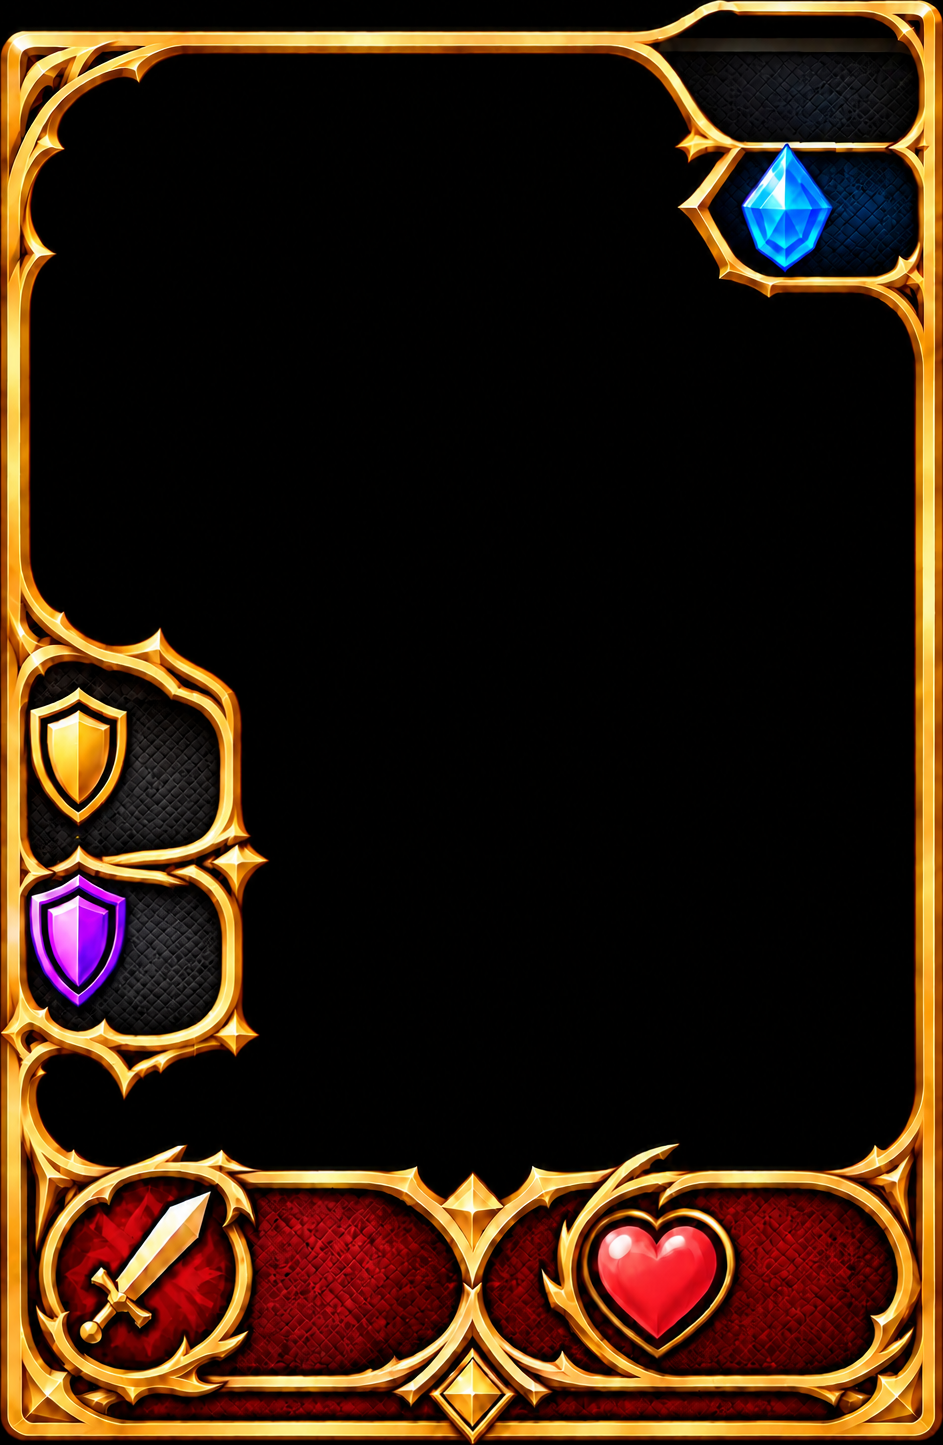
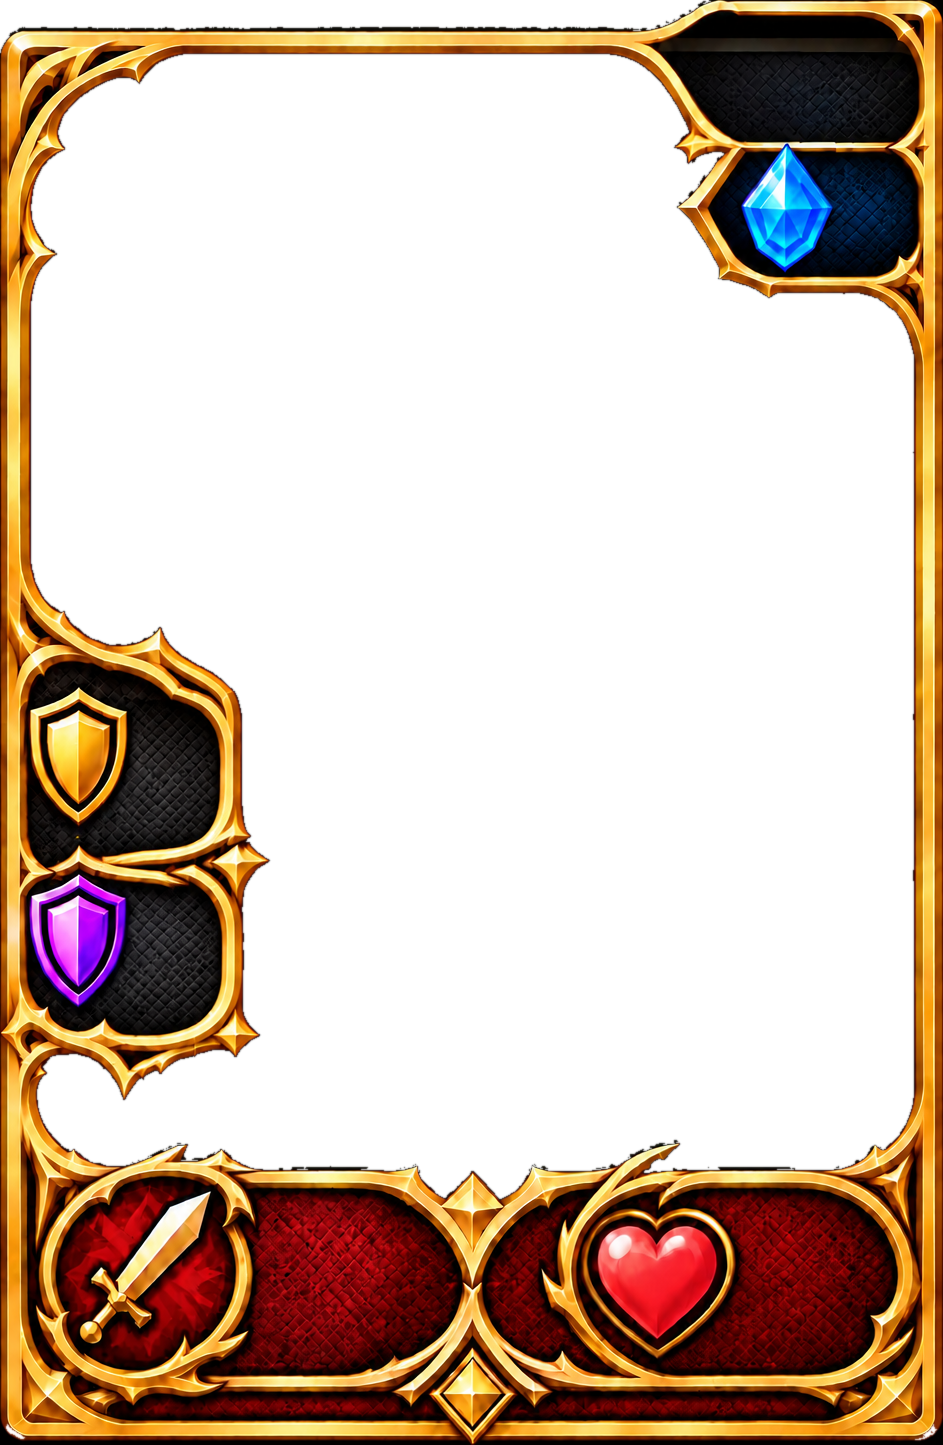
Khung lá quái: ô chỉ số nền đặc
Claude-Session: https://claude.ai/code/session_01XgSG6Z9xW8491CKVgy52Z1

diff --git a/src/lib/updates.ts b/src/lib/updates.ts
@@ -856,6 +856,7 @@ export const PENDING_NOTES: string[] = [
   "Bảng mô tả lá phép dùng khung vàng như Kho bài; số mana hiện cạnh tên bằng viên gem xanh; dưới mô tả hiện hình tốc độ to thay số mana.",
   "Lá quái đổi khung mới: lá trong bảng mô tả và lá trên tay; bỏ tên, sao ở ô trên cùng, chỉ số giáp vàng, kháng phép tím, công đỏ, máu hồng theo kiểu số sao.",
   "Lá quái trên tay: số công, máu, giáp, kháng phép, sao to và rõ hơn, không còn bị cắt; mana \"n+1\" của phép thu nhỏ vừa viên gem.",
+  "Khung lá quái mới: các ô chỉ số (sao, gem, giáp, kháng phép, công, máu) có nền đặc, không còn lộ hình lá xuyên qua.",
 ];
 
 function remarkOf(notes: string[]) {

diff --git a/src/styles.css b/src/styles.css
@@ -12995,3 +12995,4 @@ img.fs-emblem { width: 1.25rem; height: auto; fill: none; stroke: none; }
 .card .pin-stars .tag-star { width: 1.15em; height: 1.15em; }
 .card .speed { left: 77.5%; top: 18%; width: 19%; height: 13%; }
 .card.is-spell .socket:not(.is-name) { font-size: min(var(--spell-gem, 100%), 100%); }
+.card.is-framed .frame, .sheet-unit .field-unit .frame { mix-blend-mode: normal; }

diff --git a/TIEP-TUC.md b/TIEP-TUC.md
@@ -610,3 +610,4 @@ Chủ game trả lời (29/10), CHƯA LÀM gì, chờ "ok" và trả lời câu 
 - BẢNG MÔ TẢ LÁ PHÉP 02/11 (Sonnet medium; CHƯA áp `main`): lá phép trên bảng dùng `AlbumPic` (khung `cover-frame`); mana = `tag.gems` cạnh tên (`public/ui/gem.webp` chủ game gửi, tách nền trắng, số xanh lam, ẩn khi 0); tiêu đề mô tả dùng `SheetExtra.speed` (hình tốc độ cao 2,6rem) thay số mana, lá không có nhóm tốc độ thì không hình. Kho bài/Album đã dùng khung này sẵn. Chụp 390 (`/tmp/clashtest/box/c.mjs`, `s.mjs`).
 - KHUNG LÁ QUÁI MỚI 02/11 (Sonnet medium; CHƯA áp `main`): `public/ui/frame-sheet.png` (ảnh 1 chủ game, lá trong bảng mô tả: `FieldFace` card-sheets + `SheetCard` play.tsx, vị trí cố định `SHEET_SPOTS` layouts.ts, không đọc bố cục Tuỳ chỉnh) và `public/ui/frame-hand.png` (ảnh 2, tay bài: `CardFace hand`, `HAND_SPOTS`, ô trên cùng = sao kiểu `tag-star` `.pin-stars`, ô gem = mana, bỏ tên, ẩn vạch màu sao `.is-framed::after`). Số chỉ số kiểu sao: giáp vàng `.is-def`, kháng phép tím `.is-mdef`, công `.is-atk`, máu `.is-hp` (viền tối + sáng màu). Lá trên sân (`field-frame.png`), Tuỳ chỉnh, Kho bài giữ nguyên. Chụp 390 (`/tmp/clashtest/box/m.mjs`). Chưa thử số 2 chữ số, quái đang bị buff đỏ/xanh trên bảng, điện thoại.
 - SỐ LÁ TRÊN TAY TO + RÕ 02/11 (chủ game: "Không thể thấy bất cứ gì cả"; Sonnet medium; CHƯA áp `main`): `HAND_SPOTS` (layouts.ts) đổi cỡ/vị trí (công/máu size 18 y 86,6; giáp/kháng phép 17; sao 10,5; gem 11), viền chữ dày 0,14em, `line-height` 0,8 trong `.card.is-framed`; phép "n+1" trên tay thu 0,55 để vừa viên gem; icon tốc độ to hơn. Kiểm ở cỡ thật 412×915 (lá ~73×103 px), `/tmp/clashtest/box/hs.mjs`. Ô sao + gem của khung chỉ ~20×9 px nên số vẫn nhỏ (giới hạn của khung).
+- Ô CHỈ SỐ NỀN ĐẶC 02/11 (chủ game: nền trong suốt một phần làm số khó nhìn; Sonnet medium; CHƯA áp `main`): `frame-sheet.png` và `frame-hand.png` đổi sang RGBA (cửa sổ giữa + góc ngoài trong suốt hẳn, ô chỉ số đặc), CSS `.card.is-framed .frame, .sheet-unit .field-unit .frame { mix-blend-mode: normal }`. Khung phép trên tay (`spell-frame-hand.png`) và lá trên sân vẫn trộn `screen`. CHƯA làm: Tuỳ chỉnh lá trên tay/bảng mô tả (đã đề xuất, chờ ok): `HAND_SPOTS`/`SHEET_SPOTS` đang cố định, Tuỳ chỉnh hiện không chỉnh được số trên khung mới.
